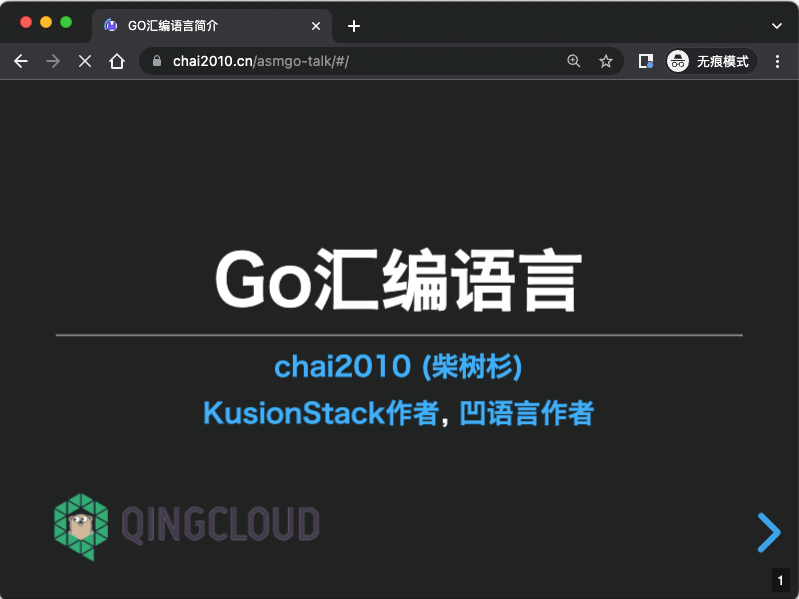
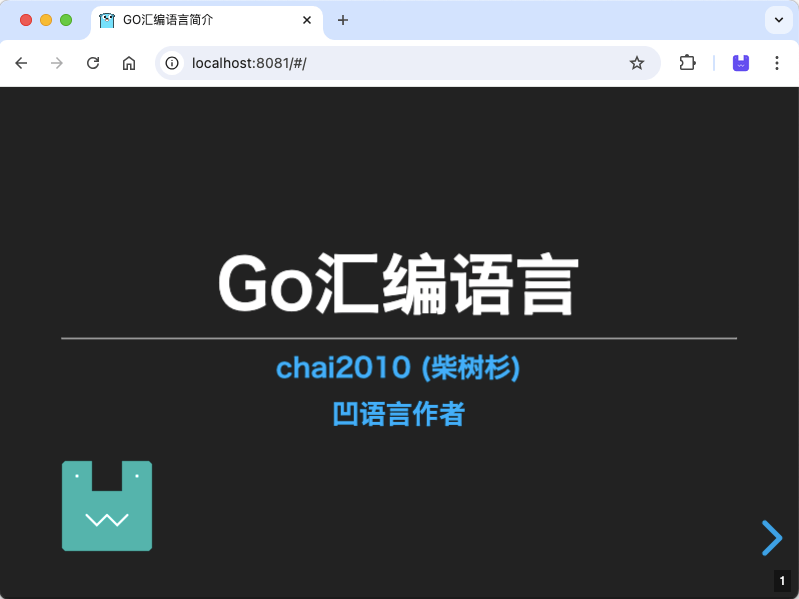
zz

diff --git a/index.html b/index.html
@@ -20,7 +20,7 @@
 
 	<style>
 		body:after {
-			content: url(./images/logo-qingcloud.png);
+			content: url(./images/logo-small.png);
 			position: fixed;
 			bottom: 2em;
 			left: 3em;
